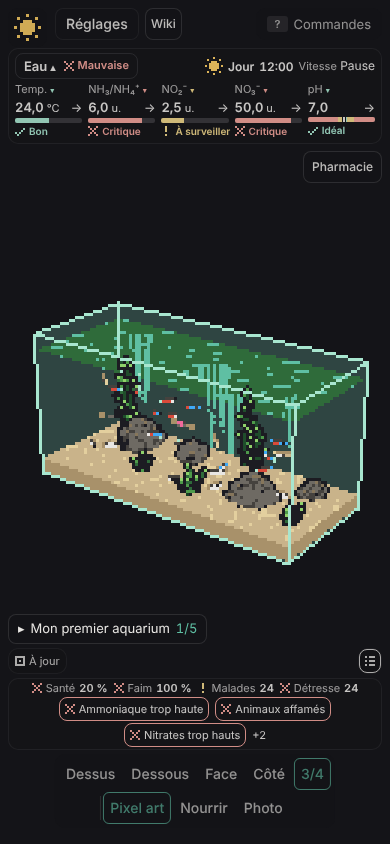
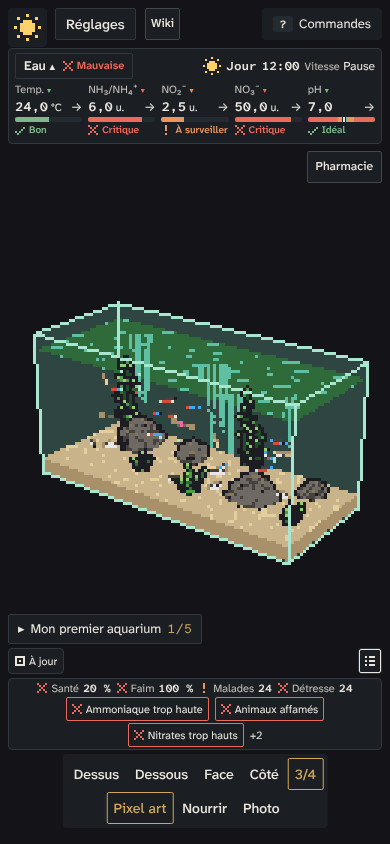
captures(c262): 5 angles

diff --git a/captures/latest/SOURCE.md b/captures/latest/SOURCE.md
@@ -1,6 +1,6 @@
-Branche: cycle/c261 (PR #749, lot 13/13 de #686, commit d85f67f)
-PR: #749
-Commit: d85f67f154ac15ad0d564719be7c2c7eccf07f93
+Branche: cycle/c262-charte-fondations (PR #750, interface 1/5, commit 637d77d)
+PR: #750
+Commit: 637d77d35c4de933343f3bad2a517504f87a29f0
 Graine: défaut
-Temps: ~4 min (captures)
-Note: 167/167 identiques au pixel près à c260 (cmp).
+Temps: ~5 min (captures)
+Écarts vs c261 : 24 captures avec interface (attendu, charte) ; 143 captures du bac seul identiques au pixel près.

diff --git a/captures/c262/SOURCE.md b/captures/c262/SOURCE.md
@@ -1,0 +1,6 @@
+Branche: cycle/c262-charte-fondations (PR #750, interface 1/5, commit 637d77d)
+PR: #750
+Commit: 637d77d35c4de933343f3bad2a517504f87a29f0
+Graine: défaut
+Temps: ~5 min (captures)
+Écarts vs c261 : 24 captures avec interface (attendu, charte) ; 143 captures du bac seul identiques au pixel près.
